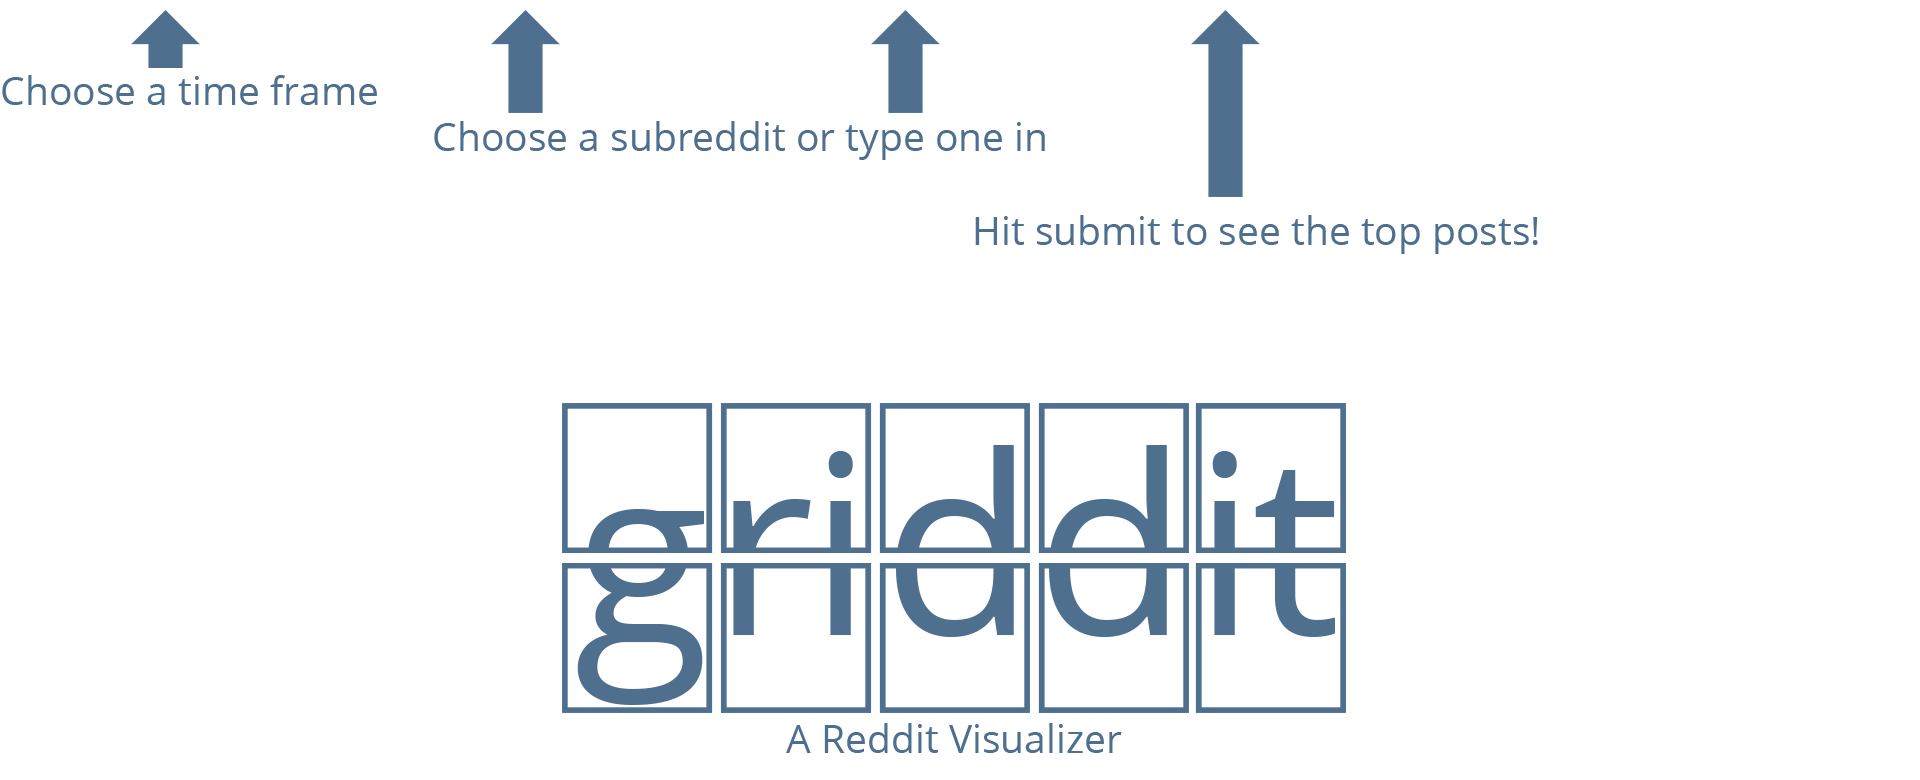
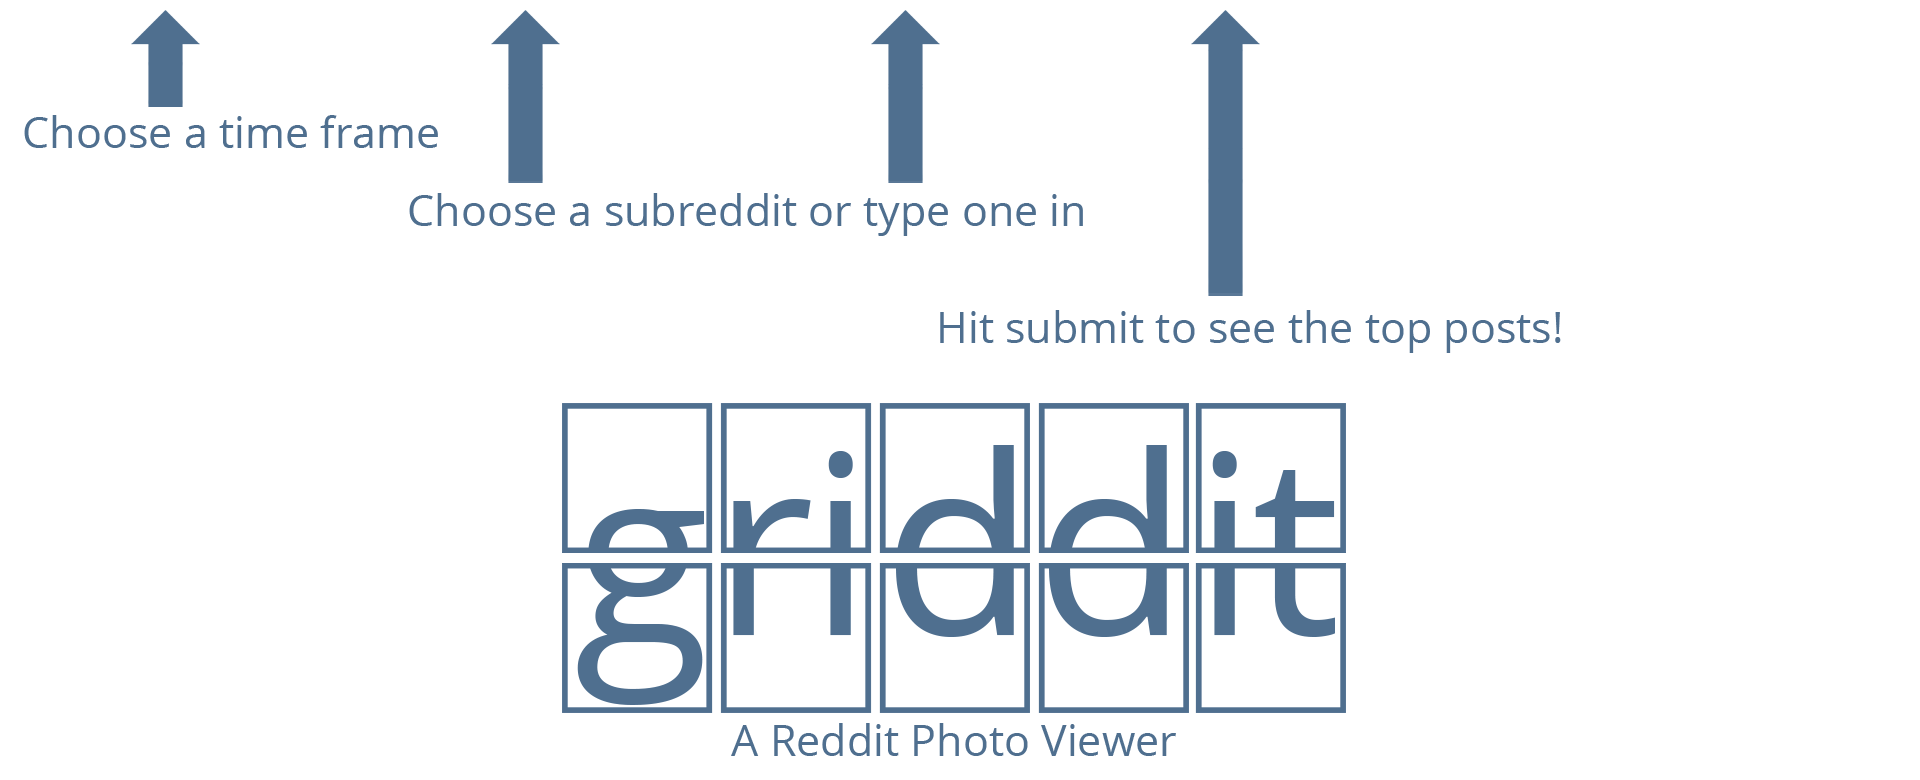
minor changes including background

Changed region(s): [[0.0, 0.0923, 0.8125, 0.4615], [0.375, 0.9231, 0.625, 0.9846]]

diff --git a/css/style.css b/css/style.css
@@ -93,7 +93,6 @@ form {
   display: grid;
   grid-template-columns: 25vw 25vw 25vw 25vw;
   grid-gap: 0px;
-  background-color: #1e2a37;
   z-index: 2;
   position: absolute; }
 
@@ -124,28 +123,6 @@ select, input {
   background: #2c3e50;
   background-image: none; }
 
-/* Custom Select, input */
-.select {
-  position: relative;
-  display: block;
-  width: 20em;
-  height: auto;
-  line-height: 3;
-  background: #2c3e50;
-  overflow: hidden;
-  border-radius: .25em;
-  margin: 1vw; }
-  .select.submit {
-    width: 15em; }
-    .select.submit:hover {
-      background: #3a5168;
-      transition: transform .25s ease-out;
-      -webkit-transition: .25s all ease;
-      -o-transition: .25s all ease;
-      transition: .25s all ease; }
-    .select.submit:active {
-      background: #4a6b8c; }
-
 select, input {
   width: 100%;
   height: 100%;
@@ -158,6 +135,29 @@ select, input {
   left: 0; }
   select::placeholder, input::placeholder {
     color: #fff; }
+
+/* Custom Select, input */
+.select {
+  position: relative;
+  display: block;
+  width: 20em;
+  height: auto;
+  line-height: 3;
+  background: #2c3e50;
+  overflow: hidden;
+  border-radius: .25em;
+  margin: 1vw; }
+  .select.submit {
+    width: 15em;
+    padding: 0; }
+    .select.submit:hover {
+      background: #3a5168;
+      transition: transform .25s ease-out;
+      -webkit-transition: .25s all ease;
+      -o-transition: .25s all ease;
+      transition: .25s all ease; }
+    .select.submit:active {
+      background: #4a6b8c; }
 
 select, input::-ms-expand {
   display: none; }

diff --git a/css/style.scss b/css/style.scss
@@ -122,7 +122,6 @@ form{
 	display: grid;
 	grid-template-columns: 25vw 25vw 25vw 25vw;
 	grid-gap: 0px;
-	background-color:$secondarycolor;
 	z-index: 2;
 	position: absolute;
 }
@@ -159,6 +158,22 @@ select, input {
 	background-image: none;
 }
 
+select, input {
+	width: 100%;
+	height: 100%;
+	margin: 0;
+	padding: 0 0 0 .5em;
+	color: #fff;
+	cursor: pointer;
+	position: absolute;
+	top: 0;
+	left: 0;
+	
+	&::placeholder{
+		color: #fff;
+	}
+
+}
 
 /* Custom Select, input */
 .select, {
@@ -173,6 +188,7 @@ select, input {
 	margin:1vw;
 	&.submit{
 		width: 15em;
+		padding:0;
 		&:hover{
 			background: #3a5168;
 			transition: transform .25s ease-out;
@@ -186,21 +202,7 @@ select, input {
 		}
 	}
 }
-select, input {
-	width: 100%;
-	height: 100%;
-	margin: 0;
-	padding: 0 0 0 .5em;
-	color: #fff;
-	cursor: pointer;
-	position: absolute;
-	top: 0;
-	left: 0;
-	&::placeholder{
-		color: #fff;
-	}
 
-}
 select, input::-ms-expand {
 	display: none;
 }

diff --git a/index.php b/index.php
@@ -10,10 +10,10 @@ include "top.php";
             <div class="select">
                 <select id="timeInput">
                   <option value="all">All Time</option>
-                  <option value="year">Year</option>
-                  <option value="month">Month</option>
-                  <option value="week">Week</option>
-                  <option value="day">Day</option>
+                  <option value="year">Past Year</option>
+                  <option value="month">Past Month</option>
+                  <option value="week">Past Week</option>
+                  <option value="day">Past Day</option>
               </select>
           </div>
           <div class="select">
@@ -30,7 +30,6 @@ include "top.php";
               <option value="bonsaiporn">Bonsai Trees</option>
               <option value="botanicalporn">Botanical</option>
               <option value="cats">Cats</option>
-              <option value="cemeteryporn">Cemeteries</option>
               <option value="churchporn">Churches</option>
               <option value="cityporn">Cities</option>
               <option value="colorizedhistory">Colorized History</option>
